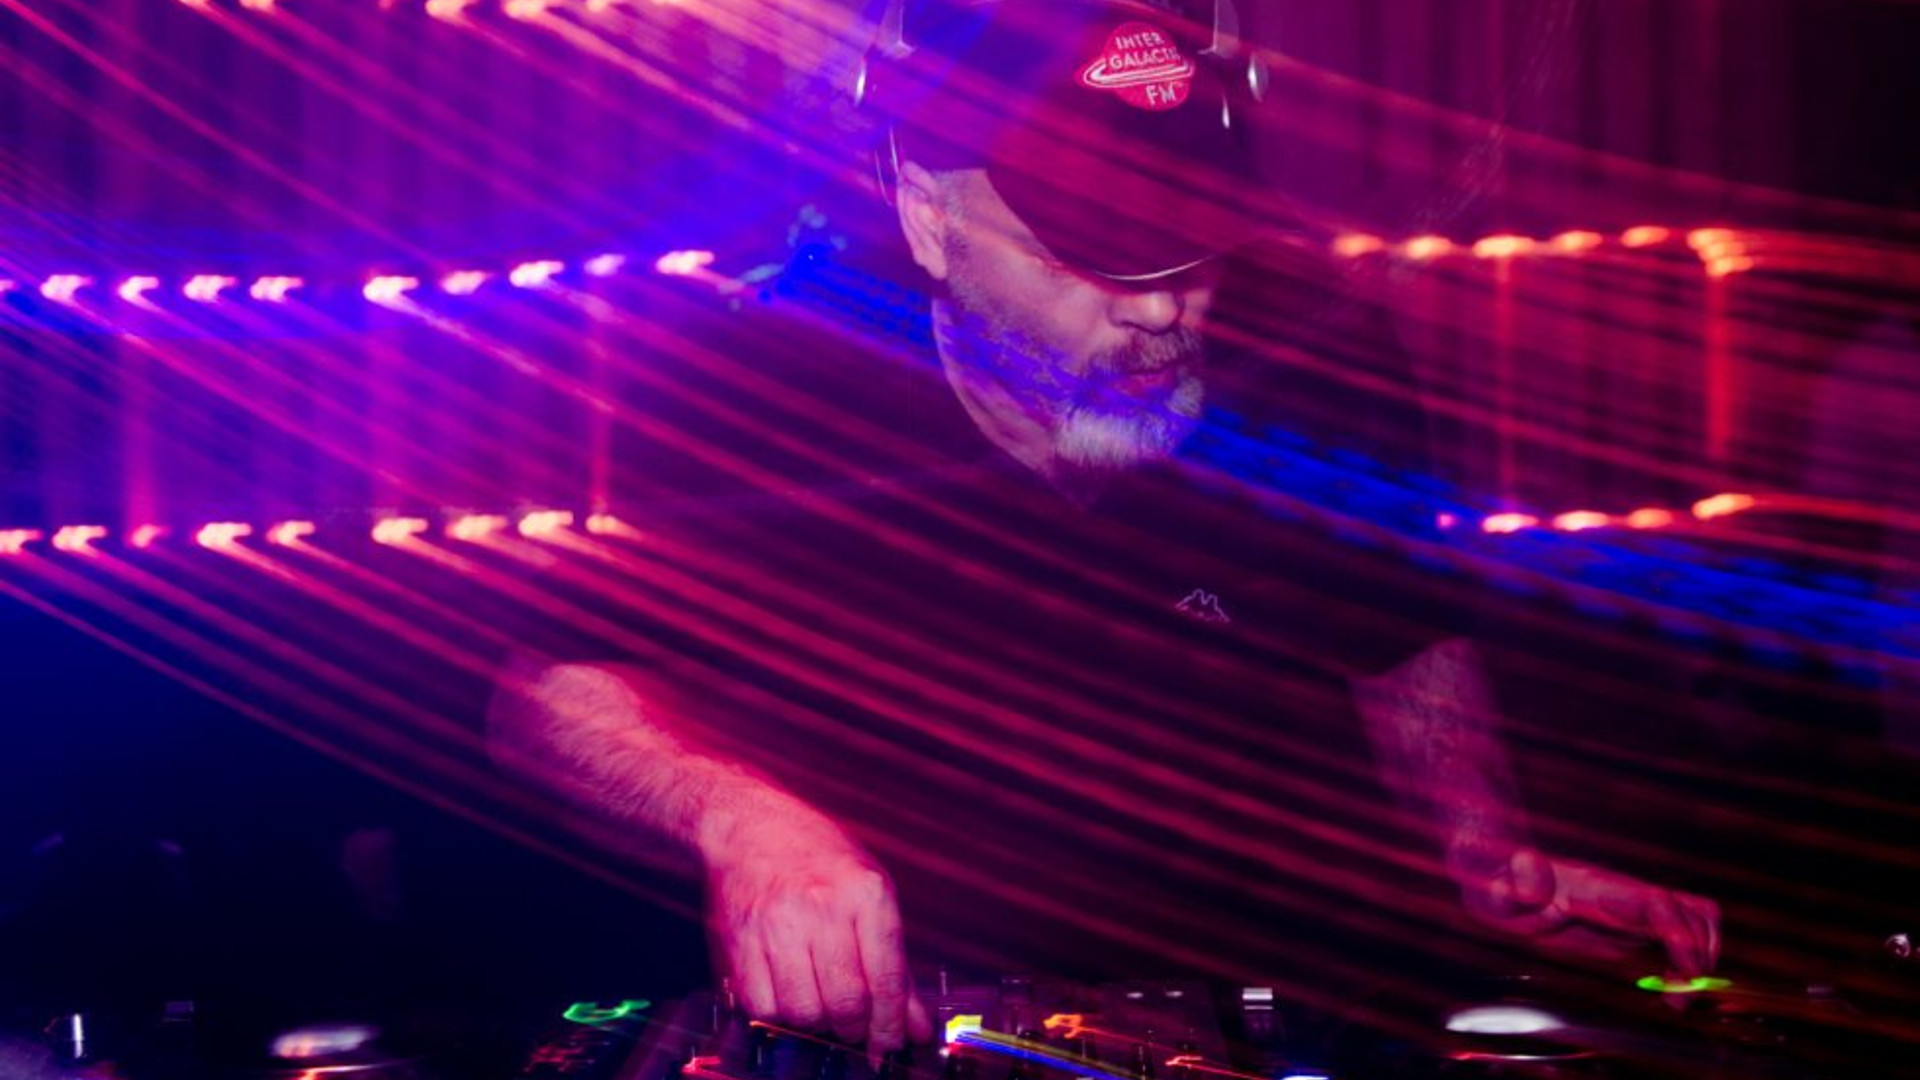
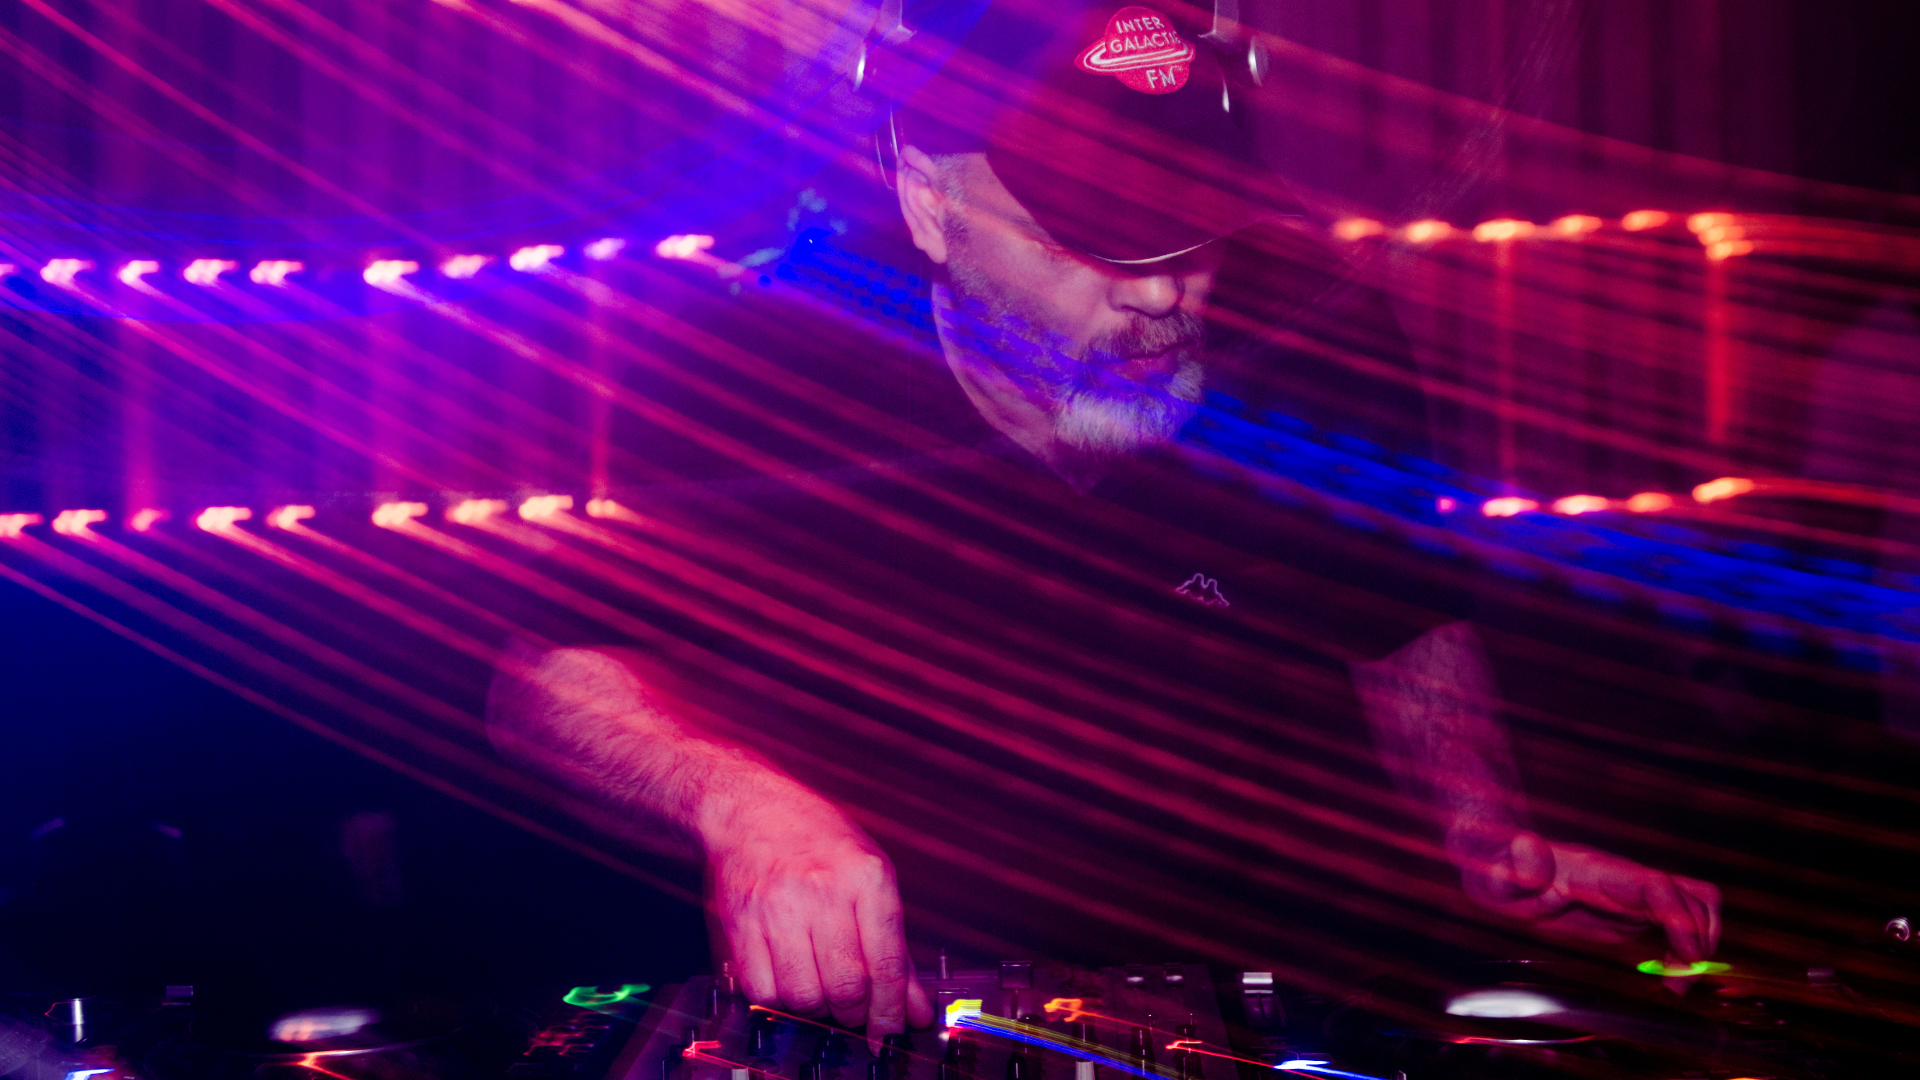
Fxied according to review on forum

diff --git a/default.py b/default.py
@@ -20,19 +20,19 @@ CHANNELS_FILE_NAME = "channels.xml"
 
 __addon__ = "Intergalactic FM"
 __addonid__ = "plugin.audio.intergalacticfm"
-__version__ = "1.0.2"
+__version__ = "1.0.3"
 
 __ms_per_day__ = 24 * 60 * 60 * 1000
 
 
 def log(msg):
-    xbmc.log(str(msg))
+    xbmc.log(str(msg), level=xbmc.LOGDEBUG)
 
 
 log(sys.argv)
 
 rootURL = "https://intergalacticfm.com/"
-tempdir = xbmc.translatePath("special://temp/intergalacticfm")
+tempdir = xbmc.translatePath("special://home/userdata/addon_data/%s" % __addonid__)
 xbmcvfs.mkdirs(tempdir)
 
 LOCAL_CHANNELS_FILE_PATH = os.path.join(tempdir, CHANNELS_FILE_NAME)

diff --git a/README.md b/README.md
@@ -25,6 +25,8 @@ Thanks
 
 Thanks go to the authors of the original add-on that was developen for SomaFM for allowing to fork their work from https://github.com/Oderik/xbmc-somafm
 
+Credits go to [Yulia Vilenksy](http://yuliavilensky.com) for persmission to use her photograph used as fanart.
+
 For that and other projects using channels.xml and channels.json, I also developed a schema for XML and JSON to describe online radio station channels, see https://github.com/PanderMusubi/online-radio-channels For this, thanks go to SomaFM for allowing to describe their dataformat and reviewing my work.
 
 Last but not least, thank you I-f and others for creating [Intergalactic FM](https://intergalacticfm.com) and embracing new initiatives and technologies to keep us all in musical orbit.
